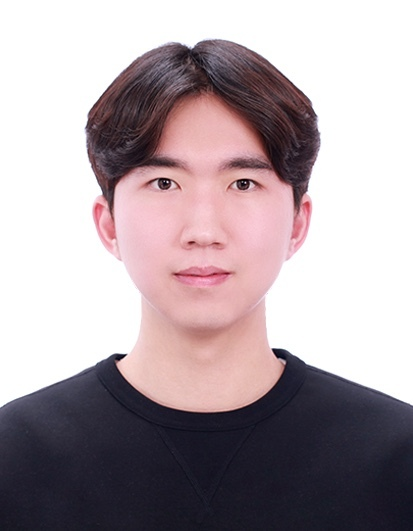
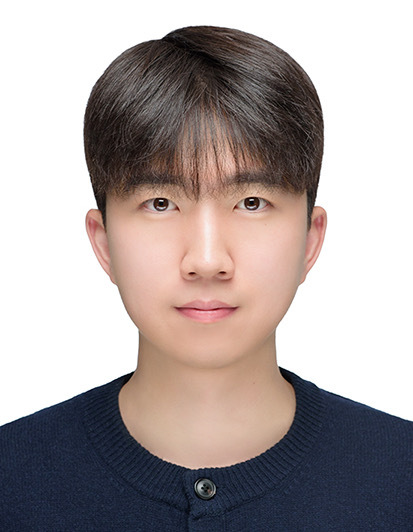
Update homepage people and contact sections

diff --git a/layouts/shortcodes/people-master.html b/layouts/shortcodes/people-master.html
@@ -16,6 +16,14 @@
   [id="master-students"] [class*="max-w"] {
     max-width: 100% !important;
   }
+
+  #master-students > .flex.flex-col > .mb-6 {
+    width: calc(100% - 2rem) !important;
+    max-width: 1310px !important;
+    margin-left: auto !important;
+    margin-right: auto !important;
+    text-align: left !important;
+  }
   
   /* Scroll animation styles */
   .people-card {
@@ -28,9 +36,46 @@
     opacity: 1;
     transform: translateY(0);
   }
+
+  .people-card h3 {
+    font-size: 1.3rem !important;
+    line-height: 1.35;
+    margin-top: 0 !important;
+    margin-bottom: 0.25rem !important;
+  }
+
+  .people-card .people-role {
+    margin-top: 0.35rem !important;
+    margin-bottom: 1rem !important;
+  }
+
+  .people-photo-frame {
+    width: 95%;
+    aspect-ratio: 3 / 4;
+    margin: -0.125rem auto 0.6rem;
+    overflow: hidden;
+    border-radius: 0.375rem;
+    -webkit-mask-image: -webkit-radial-gradient(white, black);
+    align-self: center;
+  }
+
+  .people-photo-frame img {
+    display: block;
+    width: 100%;
+    height: 100%;
+    object-fit: cover;
+    object-position: center top;
+    border-radius: inherit;
+  }
+
+  @media (max-width: 767px) {
+    .people-photo-frame {
+      max-width: 220px;
+    }
+  }
 </style>
-<div style="width: 100%; max-width: 100%; margin-left: auto; margin-right: auto; padding-left: 1rem; padding-right: 1rem;">
-  <div class="grid grid-cols-1 md:grid-cols-3 gap-6 mt-8">
+<div style="width: 100%; max-width: 1220px; margin-left: auto; margin-right: auto; padding-left: 1rem; padding-right: 1rem;">
+  <div class="grid grid-cols-1 md:grid-cols-2 lg:grid-cols-4 gap-6 mt-8">
   {{ $filtered := slice }}
   {{ range site.Data.authors }}
     {{ if eq .category "Master Students" }}
@@ -38,38 +83,39 @@
     {{ end }}
   {{ end }}
   {{ if eq (len $filtered) 0 }}
-      <div class="col-span-full py-12">
-        <p class="text-gray-600 dark:text-gray-400 mb-4">We are currently looking for Master students to join our team.</p>
-        <a href="/contact/" class="inline-flex items-center px-4 py-2 text-sm font-medium text-white bg-blue-600 dark:bg-blue-500 rounded-lg hover:bg-blue-700 dark:hover:bg-blue-600 transition-colors shadow-sm hover:shadow-md">
-          Contact
-          <svg class="w-4 h-4 ml-0.5" fill="none" stroke="currentColor" viewBox="0 0 24 24">
-            <path stroke-linecap="round" stroke-linejoin="round" stroke-width="2" d="M9 5l7 7-7 7"></path>
-          </svg>
-        </a>
-      </div>
+      <script>
+      (function() {
+        const section = document.getElementById("master-students");
+        if (section) section.style.display = "none";
+      })();
+      </script>
   {{ else }}
   {{ range sort $filtered "order" }}
-      <div class="people-card bg-white dark:bg-gray-800 rounded-lg shadow-md p-6">
-        <div class="flex flex-col items-center text-center">
+      <div class="people-card h-full bg-white dark:bg-gray-800 rounded-lg shadow-md px-6 pt-0 pb-5">
+        <div class="flex h-full flex-col items-center text-center">
           {{ $image := "" }}
           {{ if .image }}
             {{ $image = printf "/media/authors/%s" .image }}
           {{ else }}
             {{ $image = printf "/media/authors/%s.jpg" .slug }}
           {{ end }}
-          <img src="{{ $image }}" alt="{{ .name.display }}" class="rounded-full object-cover" style="width: 180px; height: 180px; margin-bottom: 0.5rem;" onerror="this.src='/media/authors/me.jpg'">
-          <h3 class="text-xl font-semibold mb-1">{{ .name.display }}</h3>
-          <p class="text-sm text-gray-600 dark:text-gray-400 mb-3">{{ .role }}</p>
-          <p class="text-sm text-gray-700 dark:text-gray-300 mb-4">{{ .bio }}</p>
+          <div class="people-photo-frame">
+            <img src="{{ $image }}" alt="{{ .name.display }}" loading="lazy" decoding="async" onerror="this.src='/media/authors/me.jpg'">
+          </div>
+          <h3 class="text-lg font-semibold mb-1">{{ .name.display }}</h3>
+          {{ $roleHTML := .role | default "" }}
+          {{ $roleHTML = replaceRE `\r?\n` "<br>" $roleHTML }}
+          {{ $roleHTML = replace $roleHTML "Lab Representative" "<span class=\"font-bold text-blue-600 dark:text-blue-400\">Lab Representative</span>" }}
+          <p class="people-role text-sm text-gray-600 dark:text-gray-400">{{ $roleHTML | safeHTML }}</p>
           {{ if .tags }}
-            <div class="flex flex-wrap gap-2 mb-4 justify-center">
+            <div class="flex flex-wrap gap-2 mb-3 justify-center">
               {{ range .tags }}
-                <span class="px-2 py-1 text-xs bg-gray-200 dark:bg-gray-700 rounded">{{ . }}</span>
+                <span class="px-2 py-1 text-xs rounded bg-blue-100 text-blue-800 dark:bg-blue-900/40 dark:text-blue-200">{{ . }}</span>
               {{ end }}
             </div>
           {{ end }}
           {{ if .links }}
-            <div class="flex gap-3">
+            <div class="mt-auto flex gap-3 pt-3">
               {{ range .links }}
                 <a href="{{ .url }}" class="text-gray-600 dark:text-gray-400 hover:text-primary-600" aria-label="{{ .label }}">
                   {{ if eq .icon "at-symbol" }}

diff --git a/layouts/shortcodes/people-interns.html b/layouts/shortcodes/people-interns.html
@@ -16,6 +16,14 @@
   [id="interns"] [class*="max-w"] {
     max-width: 100% !important;
   }
+
+  #interns > .flex.flex-col > .mb-6 {
+    width: calc(100% - 2rem) !important;
+    max-width: 1310px !important;
+    margin-left: auto !important;
+    margin-right: auto !important;
+    text-align: left !important;
+  }
   
   /* Scroll animation styles */
   .people-card {
@@ -28,9 +36,46 @@
     opacity: 1;
     transform: translateY(0);
   }
+
+  .people-card h3 {
+    font-size: 1.3rem !important;
+    line-height: 1.35;
+    margin-top: 0 !important;
+    margin-bottom: 0.25rem !important;
+  }
+
+  .people-card .people-role {
+    margin-top: 0.35rem !important;
+    margin-bottom: 1rem !important;
+  }
+
+  .people-photo-frame {
+    width: 95%;
+    aspect-ratio: 3 / 4;
+    margin: -0.125rem auto 0.6rem;
+    overflow: hidden;
+    border-radius: 0.375rem;
+    -webkit-mask-image: -webkit-radial-gradient(white, black);
+    align-self: center;
+  }
+
+  .people-photo-frame img {
+    display: block;
+    width: 100%;
+    height: 100%;
+    object-fit: cover;
+    object-position: center top;
+    border-radius: inherit;
+  }
+
+  @media (max-width: 767px) {
+    .people-photo-frame {
+      max-width: 220px;
+    }
+  }
 </style>
-<div style="width: 100%; max-width: 100%; margin-left: auto; margin-right: auto; padding-left: 1rem; padding-right: 1rem;">
-  <div class="grid grid-cols-1 md:grid-cols-3 gap-6 mt-8">
+<div style="width: 100%; max-width: 1220px; margin-left: auto; margin-right: auto; padding-left: 1rem; padding-right: 1rem;">
+  <div class="grid grid-cols-1 md:grid-cols-2 lg:grid-cols-4 gap-6 mt-8">
   {{ $filtered := slice }}
   {{ range site.Data.authors }}
     {{ if eq .category "Interns" }}
@@ -38,38 +83,39 @@
     {{ end }}
   {{ end }}
   {{ if eq (len $filtered) 0 }}
-      <div class="col-span-full py-12">
-        <p class="text-gray-600 dark:text-gray-400 mb-4">We are currently looking for interns to join our team.</p>
-        <a href="/contact/" class="inline-flex items-center px-4 py-2 text-sm font-medium text-white bg-blue-600 dark:bg-blue-500 rounded-lg hover:bg-blue-700 dark:hover:bg-blue-600 transition-colors shadow-sm hover:shadow-md">
-          Contact
-          <svg class="w-4 h-4 ml-0.5" fill="none" stroke="currentColor" viewBox="0 0 24 24">
-            <path stroke-linecap="round" stroke-linejoin="round" stroke-width="2" d="M9 5l7 7-7 7"></path>
-          </svg>
-        </a>
-      </div>
+      <script>
+      (function() {
+        const section = document.getElementById("interns");
+        if (section) section.style.display = "none";
+      })();
+      </script>
   {{ else }}
   {{ range sort $filtered "order" }}
-      <div class="people-card bg-white dark:bg-gray-800 rounded-lg shadow-md p-6">
-        <div class="flex flex-col items-center text-center">
+      <div class="people-card h-full bg-white dark:bg-gray-800 rounded-lg shadow-md px-6 pt-0 pb-5">
+        <div class="flex h-full flex-col items-center text-center">
           {{ $image := "" }}
           {{ if .image }}
             {{ $image = printf "/media/authors/%s" .image }}
           {{ else }}
             {{ $image = printf "/media/authors/%s.jpg" .slug }}
           {{ end }}
-          <img src="{{ $image }}" alt="{{ .name.display }}" class="rounded-full object-cover" style="width: 180px; height: 180px; margin-bottom: 0.5rem;" onerror="this.src='/media/authors/me.jpg'">
-          <h3 class="text-xl font-semibold mb-1">{{ .name.display }}</h3>
-          <p class="text-sm text-gray-600 dark:text-gray-400 mb-3">{{ .role }}</p>
-          <p class="text-sm text-gray-700 dark:text-gray-300 mb-4">{{ .bio }}</p>
+          <div class="people-photo-frame">
+            <img src="{{ $image }}" alt="{{ .name.display }}" loading="lazy" decoding="async" onerror="this.src='/media/authors/me.jpg'">
+          </div>
+          <h3 class="text-lg font-semibold mb-1">{{ .name.display }}</h3>
+          {{ $roleHTML := .role | default "" }}
+          {{ $roleHTML = replaceRE `\r?\n` "<br>" $roleHTML }}
+          {{ $roleHTML = replace $roleHTML "Lab Representative" "<span class=\"font-bold text-blue-600 dark:text-blue-400\">Lab Representative</span>" }}
+          <p class="people-role text-sm text-gray-600 dark:text-gray-400">{{ $roleHTML | safeHTML }}</p>
           {{ if .tags }}
-            <div class="flex flex-wrap gap-2 mb-4 justify-center">
+            <div class="flex flex-wrap gap-2 mb-3 justify-center">
               {{ range .tags }}
-                <span class="px-2 py-1 text-xs bg-gray-200 dark:bg-gray-700 rounded">{{ . }}</span>
+                <span class="px-2 py-1 text-xs rounded bg-blue-100 text-blue-800 dark:bg-blue-900/40 dark:text-blue-200">{{ . }}</span>
               {{ end }}
             </div>
           {{ end }}
           {{ if .links }}
-            <div class="flex gap-3">
+            <div class="mt-auto flex gap-3 pt-3">
               {{ range .links }}
                 <a href="{{ .url }}" class="text-gray-600 dark:text-gray-400 hover:text-primary-600" aria-label="{{ .label }}">
                   {{ if eq .icon "at-symbol" }}

diff --git a/layouts/shortcodes/people-pi.html b/layouts/shortcodes/people-pi.html
@@ -18,6 +18,14 @@
   [id="pi"] [class*="max-w"] {
     max-width: 100% !important;
   }
+
+  #pi > .flex.flex-col > .mb-6 {
+    width: calc(100% - 2rem) !important;
+    max-width: 1310px !important;
+    margin-left: auto !important;
+    margin-right: auto !important;
+    text-align: left !important;
+  }
   
   /* Scroll animation styles */
   .people-card {
@@ -30,9 +38,46 @@
     opacity: 1;
     transform: translateY(0);
   }
+
+  .people-card h3 {
+    font-size: 1.3rem !important;
+    line-height: 1.35;
+    margin-top: 0 !important;
+    margin-bottom: 0.25rem !important;
+  }
+
+  .people-card .people-role {
+    margin-top: 0.35rem !important;
+    margin-bottom: 1rem !important;
+  }
+
+  .people-photo-frame {
+    width: 95%;
+    aspect-ratio: 3 / 4;
+    margin: -0.125rem auto 0.6rem;
+    overflow: hidden;
+    border-radius: 0.375rem;
+    -webkit-mask-image: -webkit-radial-gradient(white, black);
+    align-self: center;
+  }
+
+  .people-photo-frame img {
+    display: block;
+    width: 100%;
+    height: 100%;
+    object-fit: cover;
+    object-position: center top;
+    border-radius: inherit;
+  }
+
+  @media (max-width: 767px) {
+    .people-photo-frame {
+      max-width: 220px;
+    }
+  }
 </style>
-<div style="width: 100%; max-width: 100%; margin-left: auto; margin-right: auto; padding-left: 1rem; padding-right: 1rem;">
-  <div class="grid grid-cols-1 md:grid-cols-3 gap-6 mt-8">
+<div style="width: 100%; max-width: 1220px; margin-left: auto; margin-right: auto; padding-left: 1rem; padding-right: 1rem;">
+  <div class="flex justify-start mt-8">
   {{ $filtered := slice }}
   {{ range site.Data.authors }}
     {{ if eq .category "PI" }}
@@ -40,27 +85,31 @@
     {{ end }}
   {{ end }}
   {{ range sort $filtered "order" }}
-      <div class="people-card bg-white dark:bg-gray-800 rounded-lg shadow-md p-6">
-        <div class="flex flex-col items-center text-center">
+      <div class="people-card h-full bg-white dark:bg-gray-800 rounded-lg shadow-md px-6 pt-0 pb-5" style="width: 100%; max-width: 287px;">
+        <div class="flex h-full flex-col items-center text-center">
           {{ $image := "" }}
           {{ if .image }}
             {{ $image = printf "/media/authors/%s" .image }}
           {{ else }}
             {{ $image = printf "/media/authors/%s.jpg" .slug }}
           {{ end }}
-          <img src="{{ $image }}" alt="{{ .name.display }}" class="rounded-full object-cover" style="width: 180px; height: 180px; margin-bottom: 0.5rem;" onerror="this.src='/media/authors/me.jpg'">
-          <h3 class="text-xl font-semibold mb-1">{{ .name.display }}</h3>
-          <p class="text-sm text-gray-600 dark:text-gray-400 mb-3">{{ .role }}</p>
-          <p class="text-sm text-gray-700 dark:text-gray-300 mb-4">{{ .bio }}</p>
+          <div class="people-photo-frame">
+            <img src="{{ $image }}" alt="{{ .name.display }}" loading="lazy" decoding="async" onerror="this.src='/media/authors/me.jpg'">
+          </div>
+          <h3 class="text-lg font-semibold mb-1">{{ .name.display }}</h3>
+          <p class="people-role text-sm text-gray-600 dark:text-gray-400">{{ .role }}</p>
+          {{ with .bio }}
+            <p class="text-sm leading-relaxed text-gray-700 dark:text-gray-300 mb-4">{{ . }}</p>
+          {{ end }}
           {{ if .tags }}
-            <div class="flex flex-wrap gap-2 mb-4 justify-center">
+            <div class="flex flex-wrap gap-2 mb-3 justify-center">
               {{ range .tags }}
-                <span class="px-2 py-1 text-xs bg-gray-200 dark:bg-gray-700 rounded">{{ . }}</span>
+                <span class="px-2 py-1 text-xs rounded bg-blue-100 text-blue-800 dark:bg-blue-900/40 dark:text-blue-200">{{ . }}</span>
               {{ end }}
             </div>
           {{ end }}
           {{ if .links }}
-            <div class="flex gap-3">
+            <div class="mt-auto flex gap-3 pt-3">
               {{ range .links }}
                 <a href="{{ .url }}" class="text-gray-600 dark:text-gray-400 hover:text-primary-600" aria-label="{{ .label }}">
                   {{ if eq .icon "at-symbol" }}

diff --git a/content/people/_index.md b/content/people/_index.md
@@ -12,7 +12,7 @@ sections:
     content:
       title: Principal Investigator
       text: |
-        <div class="mb-2" style="border-bottom: 2px solid #3b82f6; max-width: 80%; margin-top: -1rem;"></div>
+        <div class="mb-2" style="border-bottom: 2px solid #3b82f6; width: calc(100% - 2rem) !important; max-width: 1310px !important; margin: -1rem auto 0 !important;"></div>
         {{< people-pi >}}
     design:
       spacing:
@@ -51,7 +51,7 @@ sections:
     content:
       title: Master Students
       text: |
-        <div class="mb-2" style="border-bottom: 2px solid #3b82f6; max-width: 80%; margin-top: -1rem;"></div>
+        <div class="mb-2" style="border-bottom: 2px solid #3b82f6; width: calc(100% - 2rem) !important; max-width: 1310px !important; margin: -1rem auto 0 !important;"></div>
         {{< people-master >}}
     design:
       spacing:
@@ -64,7 +64,7 @@ sections:
     content:
       title: Undergraduate Students
       text: |
-        <div class="mb-2" style="border-bottom: 2px solid #3b82f6; max-width: 80%; margin-top: -1rem;"></div>
+        <div class="mb-2" style="border-bottom: 2px solid #3b82f6; width: calc(100% - 2rem) !important; max-width: 1310px !important; margin: -1rem auto 0 !important;"></div>
         {{< people-interns >}}
     design:
       spacing:

diff --git a/content/contact/_index.md b/content/contact/_index.md
@@ -37,7 +37,7 @@ sections:
         - name: Lab Office
           icon: building-office
           description: |
-            R3 Bldg - 805/806
+            R7 Bldg - 511
     design:
       spacing:
         padding: ["2rem", 0, "2rem", 0]
